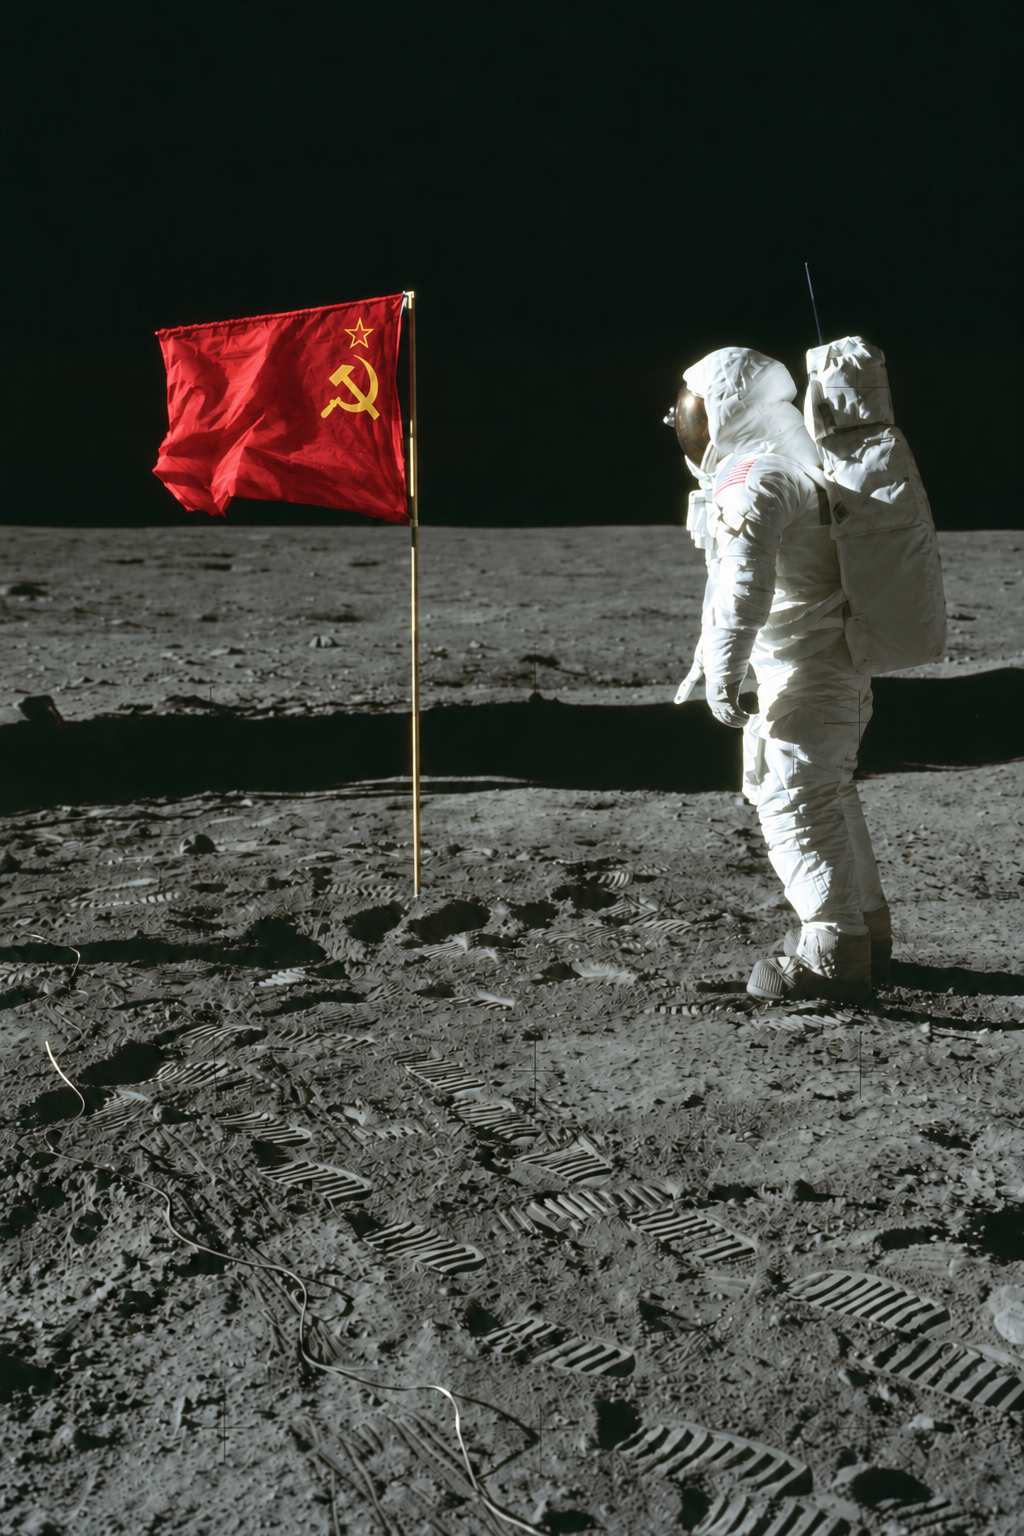
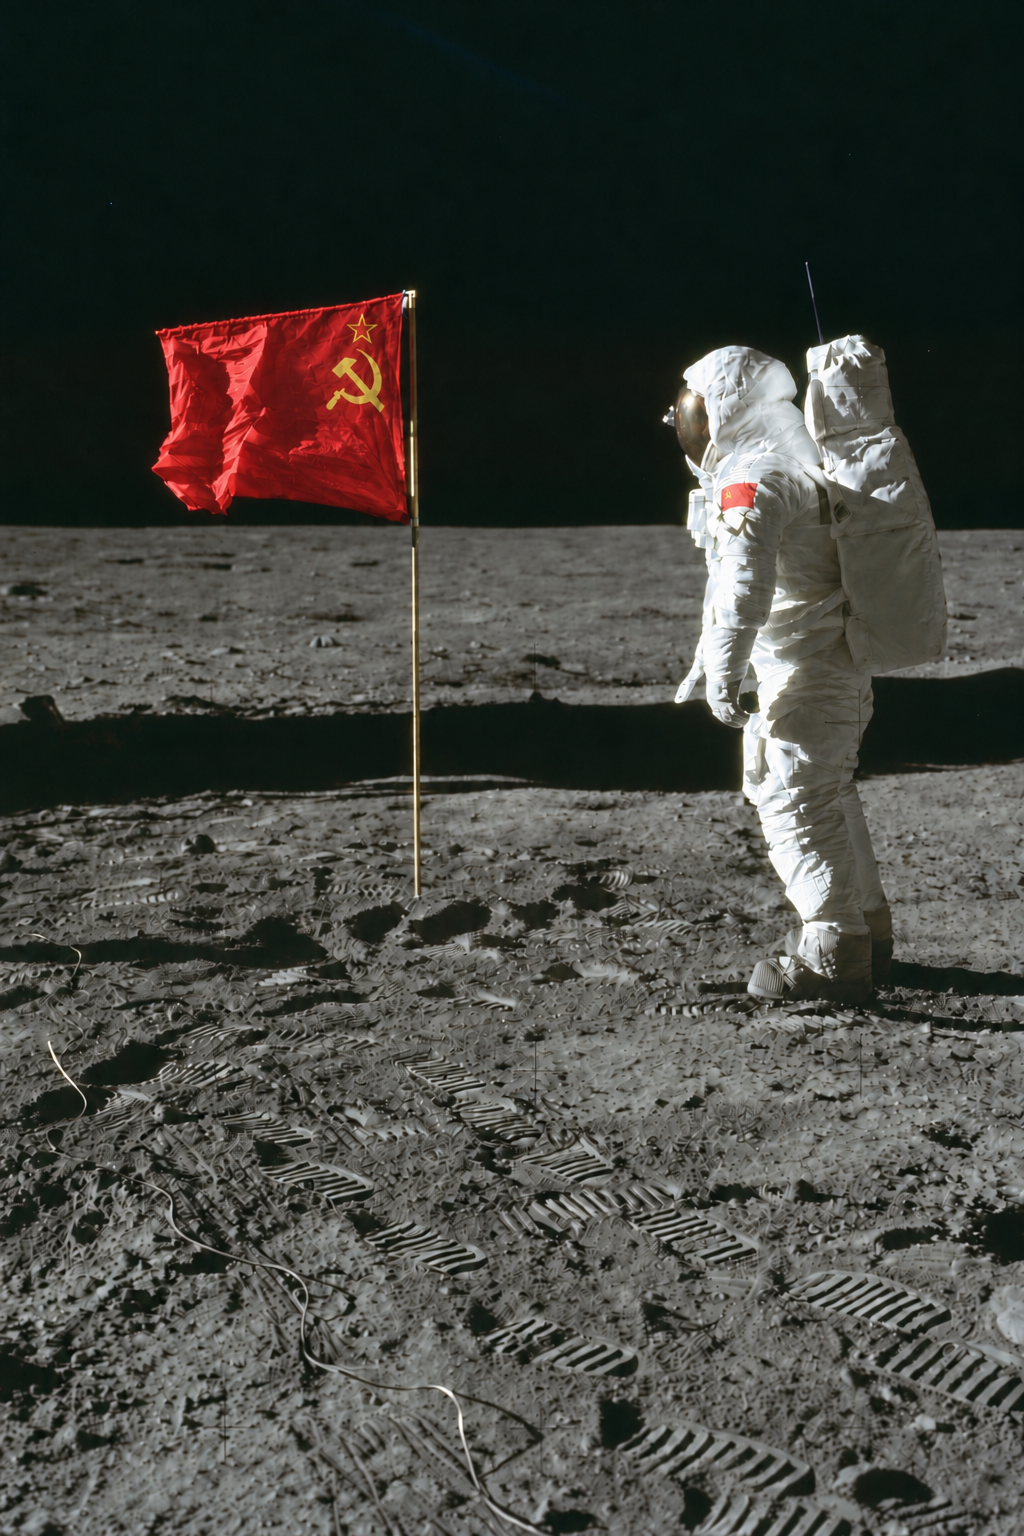
Refine Apollo flag materials and replace all flag insignia

diff --git a/projects/false-negative/originals/Apollo 11 moonlanding/NEW-EDITS.md b/projects/false-negative/originals/Apollo 11 moonlanding/NEW-EDITS.md
@@ -1,6 +1,6 @@
 # False Negatives - additional Apollo 11 edits
 
-Created 2 November 2026 with the built-in image_gen tool. Four fictional AI-edited artworks replace the planted American flag with a red Soviet flag, following the substitution in Soviet Flag on the Moon.png. Two landscapes are 1536 x 1024 (3:2); two portraits are 1024 x 1536 (2:3).
+Created and revised 2 November 2026 with the built-in image_gen tool. Six fictional AI-edited artworks substitute Soviet flags throughout each frame, including flags on suits, backpacks and spacecraft wherever visible. Three landscapes are 1536 x 1024 (3:2); three portraits are 1024 x 1536 (2:3).
 
 | Image | Local source | Pixels | Prompts |
 | --- | --- | --- | --- |
@@ -8,7 +8,9 @@ Created 2 November 2026 with the built-in image_gen tool. Four fictional AI-edit
 | [Open Ground and Solar Wind Experiment](Soviet%20Flag%20-%20Open%20Ground%20and%20Solar%20Wind%20Experiment.png) | [AS11-40-5885.jpg](alternatives/AS11-40-5885.jpg) | 1536 x 1024 | [Prompt](Soviet%20Flag%20-%20Open%20Ground%20and%20Solar%20Wind%20Experiment.prompt.txt) |
 | [Long Shadows](Soviet%20Flag%20-%20Long%20Shadows.png) | [AS11-40-5905.jpg](alternatives/AS11-40-5905.jpg) | 1024 x 1536 | [Prompt](Soviet%20Flag%20-%20Long%20Shadows.prompt.txt) |
 | [Working Beside the Lunar Module](Soviet%20Flag%20-%20Working%20Beside%20the%20Lunar%20Module.png) | [5025h.jpg](alternatives/5025h.jpg) | 1536 x 1024 | [Prompt](Soviet%20Flag%20-%20Working%20Beside%20the%20Lunar%20Module.prompt.txt) |
+| [Lunar Surface Portrait](Soviet%20Flags%20-%20Lunar%20Surface%20Portrait.png) | [GPN-2001-000013h.jpg](alternatives/GPN-2001-000013h.jpg) | 1024 x 1536 | [Prompt](Soviet%20Flags%20-%20Lunar%20Surface%20Portrait.prompt.txt) |
+| [Apollo Crew Portrait](Soviet%20Flags%20-%20Apollo%20Crew%20Portrait.png) | [GPN-2000-001164h.jpg](alternatives/GPN-2000-001164h.jpg) | 1536 x 1024 | [Prompt](Soviet%20Flags%20-%20Apollo%20Crew%20Portrait.prompt.txt) |
 
-The edits retain the source views' off-center subjects, equipment, shadows, scan texture and camera crosses, with framing adapted to the requested aspect ratios. AI generation can introduce local variations beyond the flag; these files are artworks rather than archival reproductions. Small American insignia on suits and spacecraft remain part of the original scenes.
+The four planted-flag views were revised using their original photographs as the primary material reference, emphasizing thin nylon, sharp packing creases, original folds, hems and uneven highlights. Soviet designs also replace the alternate-pose astronaut's shoulder flag and both the backpack patch and spacecraft decal in the lunar-module view. The added lunar-surface portrait replaces its visible sleeve flag; the crew portrait replaces all three sleeve flags. Patches retain cloth texture and spacecraft markings remain flat decals. NASA badges and name labels are retained.
 
-All four outputs were visually reviewed against their source frames and checked for PNG integrity and exact aspect ratio. The existing artwork and source files were left untouched. Adjacent prompt files record the initial and final prompts where a correction was needed.
+All six outputs were visually compared with their references, including small flag areas, and checked for PNG integrity and exact aspect ratio. AI editing can introduce local variations in folds and other details; these are fictional artworks, not archival reproductions. The source JPEGs and original Soviet Flag on the Moon.png were left untouched. Adjacent prompt files record the selected source-edit and final cleanup prompts.
